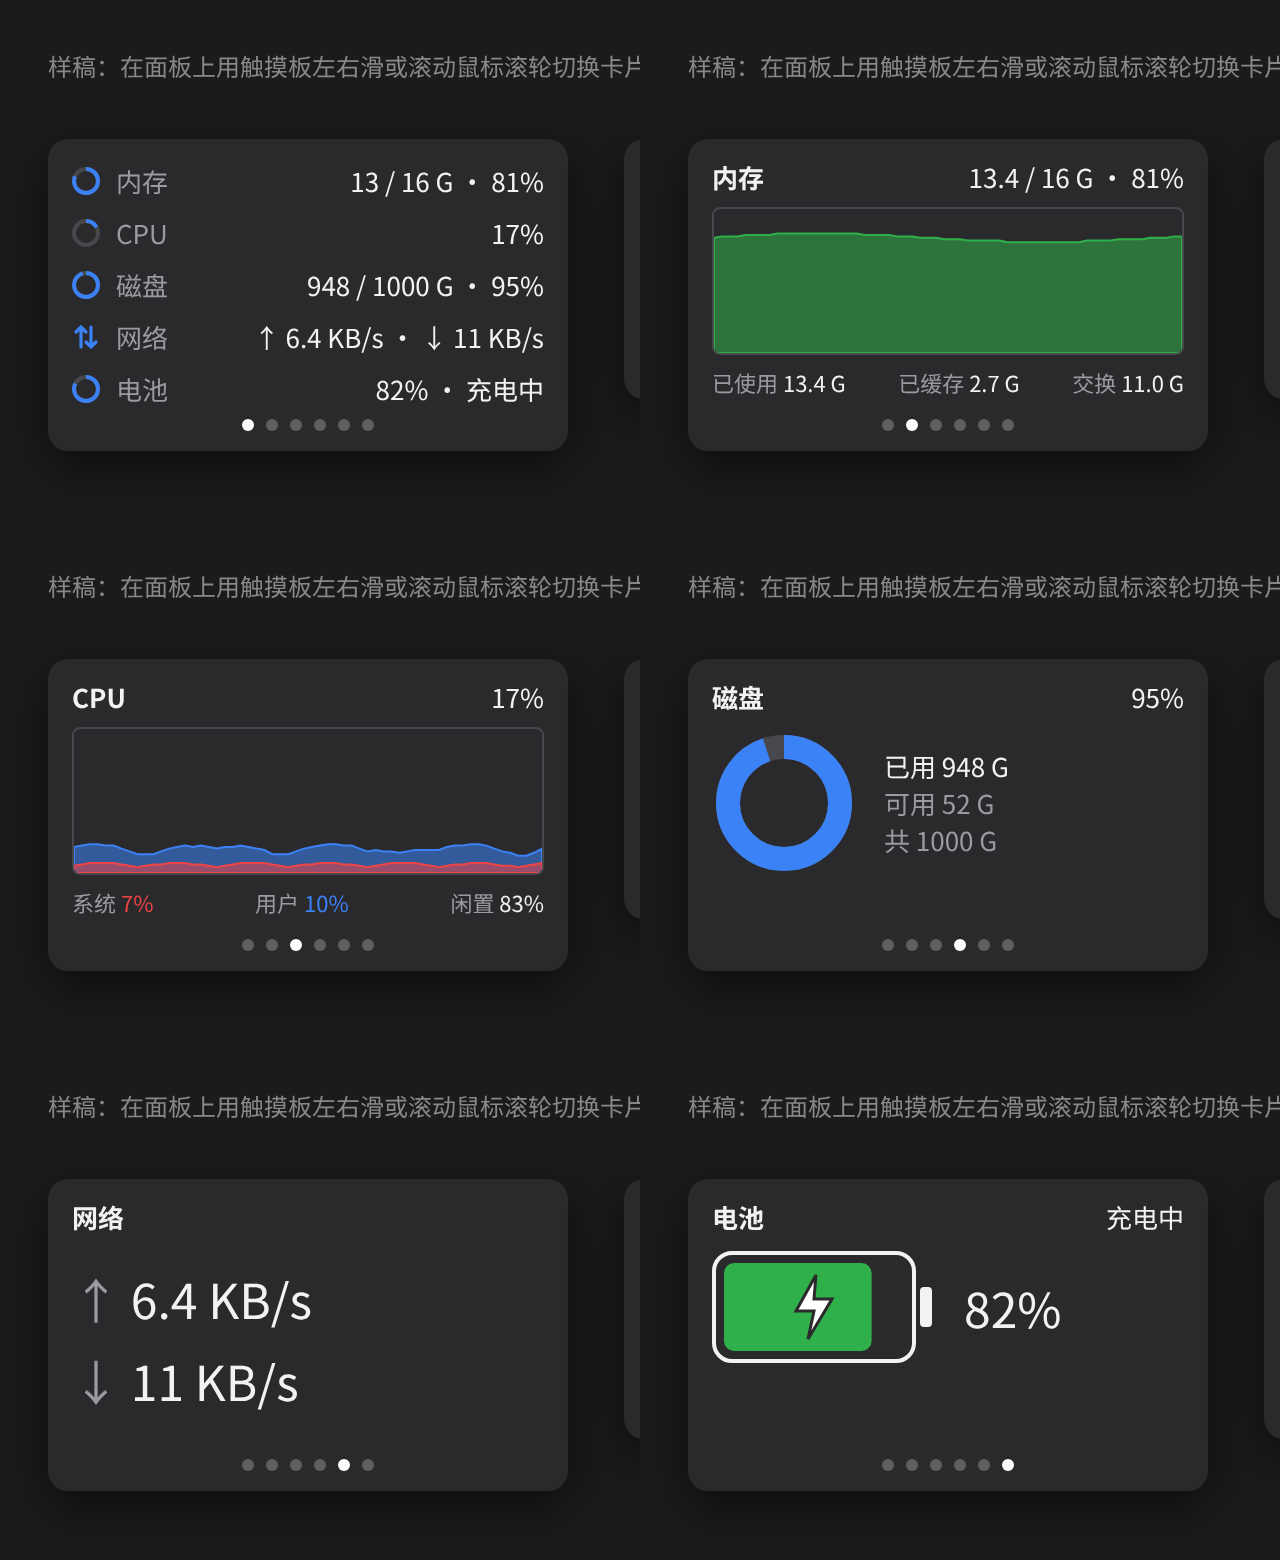
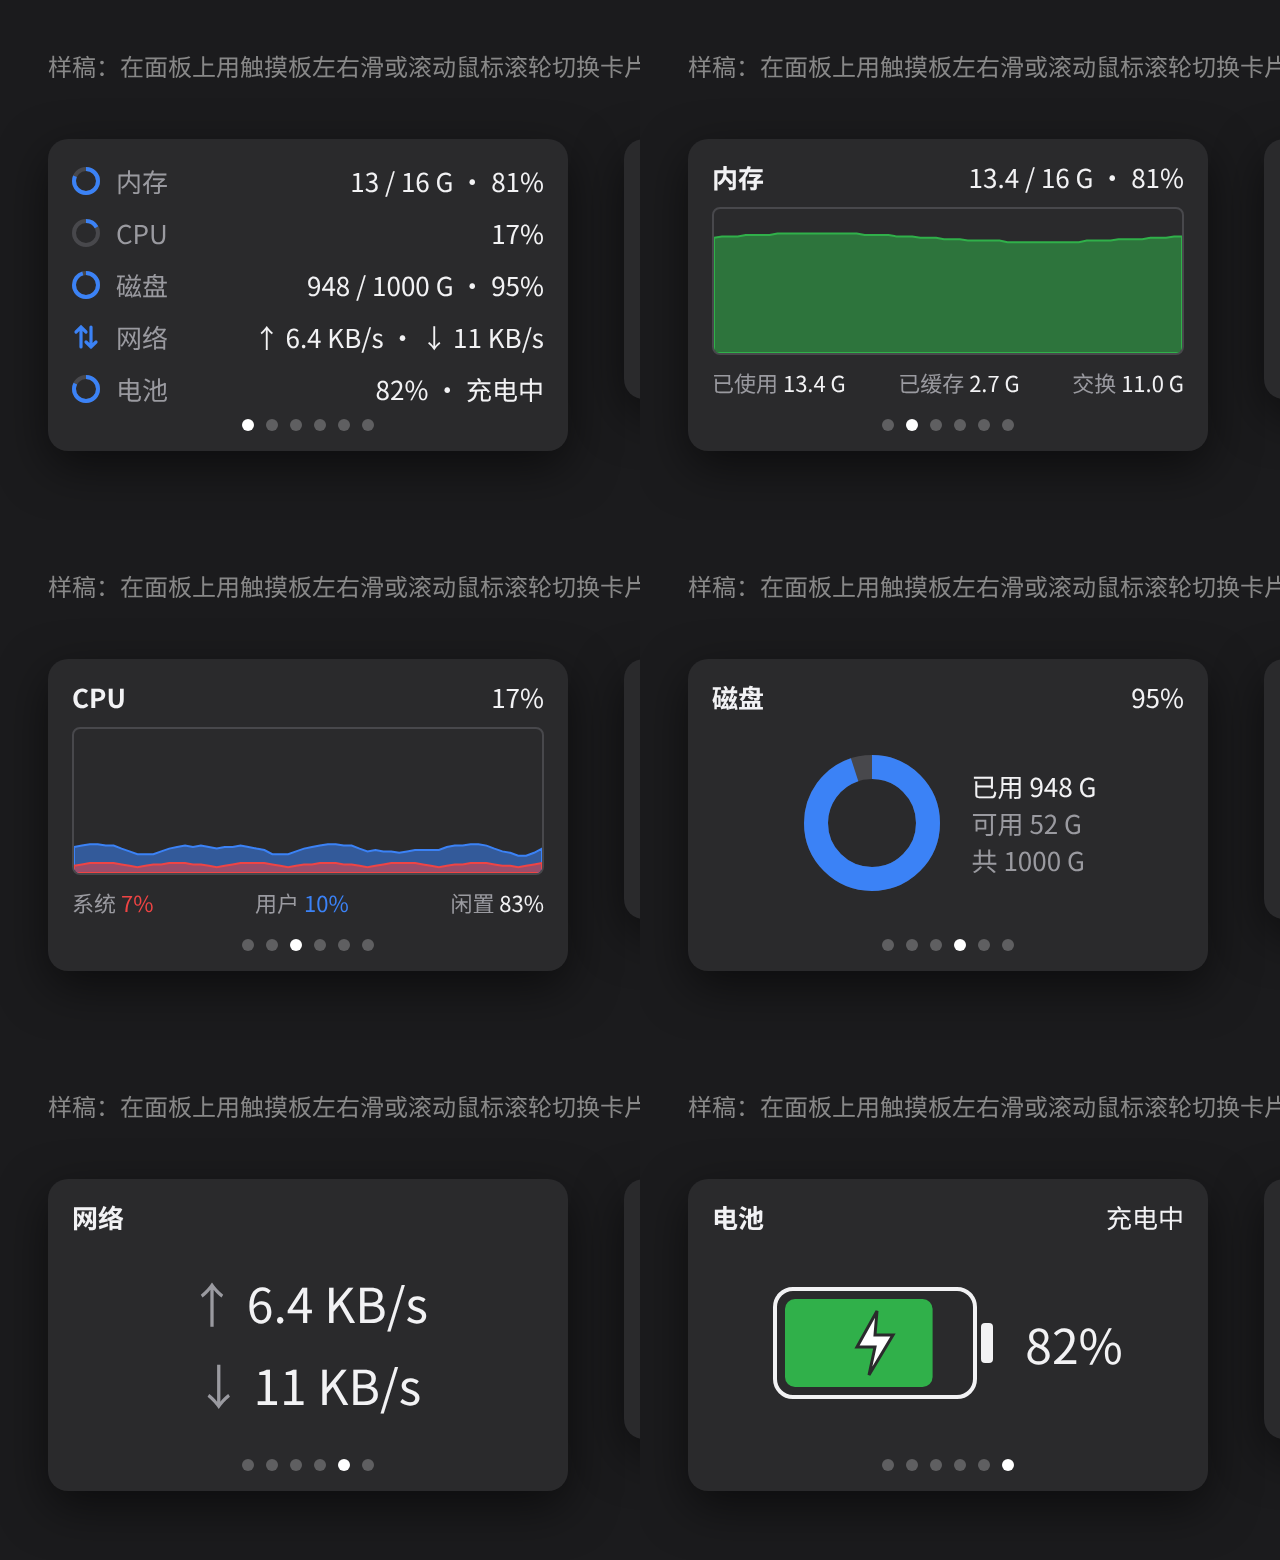
docs: v0.1.12 磁盘/网络/电池卡内容居中

Changed region(s): [[0.5625, 0.4615, 0.8438, 0.5846], [0.5625, 0.8, 0.875, 0.8923], [0.0938, 0.8, 0.3438, 0.9231]]

diff --git a/docs/changes/assets/0.1.12-cards-demo.html b/docs/changes/assets/0.1.12-cards-demo.html
@@ -10,7 +10,7 @@ body{margin:0;background:#1b1b1d;font:13px -apple-system,"PingFang SC",sans-seri
 .title{display:flex;align-items:baseline;height:18px}.title b{font-weight:600}.title span{margin-left:auto;font-variant-numeric:tabular-nums}
 .chart{margin-top:6px;height:72px;border:1px solid var(--sep);border-radius:4px;overflow:hidden}
 .stats{display:flex;justify-content:space-between;margin-top:6px;font-size:11px;color:var(--sec);font-variant-numeric:tabular-nums}.stats i{font-style:normal;color:var(--fg)}
-.big{display:flex;align-items:center;gap:14px;margin-top:8px}
+.big{display:flex;align-items:center;justify-content:center;gap:14px;height:calc(100% - 18px)}
 .dots{height:14px;display:flex;justify-content:center;align-items:center;gap:6px;padding-bottom:6px}
 .dot{width:6px;height:6px;border-radius:3px;background:#ffffff40}.dot.on{background:#fff}
 .cap{width:100%;color:#888;font-size:12px}
@@ -30,7 +30,7 @@ const cards=[`<div class="card">${rows.map(r=>`<div class="row">${r[0]}<span cla
 `<div class="card"><div class="title"><b>内存</b><span>13.4 / 16 G · ${m}%</span></div><div class="chart"><svg width="234" height="72">${area(mem,'var(--green)')}</svg></div><div class="stats"><span>已使用 <i>13.4 G</i></span><span>已缓存 <i>2.7 G</i></span><span>交换 <i>11.0 G</i></span></div></div>`,
 `<div class="card"><div class="title"><b>CPU</b><span>${u+s}%</span></div><div class="chart"><svg width="234" height="72">${area(cs.map((v,i)=>v+cu[i]),'var(--acc)')}${area(cs,'var(--red)')}</svg></div><div class="stats"><span>系统 <i style="color:var(--red)">${s}%</i></span><span>用户 <i style="color:var(--acc)">${u}%</i></span><span>闲置 <i>${100-u-s}%</i></span></div></div>`,
 `<div class="card"><div class="title"><b>磁盘</b><span>95%</span></div><div class="big"><svg width="72" height="72" viewBox="0 0 72 72"><circle cx="36" cy="36" r="28" fill="none" stroke="var(--sep)" stroke-width="12"/><circle cx="36" cy="36" r="28" fill="none" stroke="var(--acc)" stroke-width="12" stroke-dasharray="${2*Math.PI*28*.948} 999" transform="rotate(-90 36 36)"/></svg><div><div>已用 948 G</div><div class="lab">可用 52 G</div><div class="lab">共 1000 G</div></div></div></div>`,
-`<div class="card"><div class="title"><b>网络</b></div><div class="big" style="flex-direction:column;align-items:flex-start;gap:6px;margin-top:14px"><div style="font-size:24px;font-variant-numeric:tabular-nums"><span style="color:var(--sec)">↑</span> 6.4 KB/s</div><div style="font-size:24px;font-variant-numeric:tabular-nums"><span style="color:var(--sec)">↓</span> 11 KB/s</div></div></div>`];
+`<div class="card"><div class="title"><b>网络</b></div><div class="big" style="flex-direction:column;gap:6px"><div style="font-size:24px;font-variant-numeric:tabular-nums"><span style="color:var(--sec)">↑</span> 6.4 KB/s</div><div style="font-size:24px;font-variant-numeric:tabular-nums"><span style="color:var(--sec)">↓</span> 11 KB/s</div></div></div>`];
 if(bat)cards.push(`<div class="card"><div class="title"><b>电池</b><span>充电中</span></div><div class="big"><svg width="112" height="56" viewBox="0 0 112 56"><rect x="1" y="1" width="100" height="54" rx="9" fill="none" stroke="var(--fg)" stroke-width="2"/><rect x="104" y="18" width="6" height="20" rx="2" fill="var(--fg)"/><rect x="6" y="6" width="${90*.82}" height="44" rx="5" fill="var(--green)"/><path d="M52 12l-10 18h9l-3 14 12-20h-9z" fill="#fff" stroke="var(--bg)" stroke-width="1.5"/></svg><div style="font-size:24px;font-variant-numeric:tabular-nums">82%</div></div></div>`);
 if(!el.p){el.p=0;el.innerHTML=`<div class="panel"><div class="track"></div><div class="dots"></div></div>`;
  let lock=0,acc=0;el.querySelector('.panel').addEventListener('wheel',e=>{e.preventDefault();const d=Math.abs(e.deltaX)>Math.abs(e.deltaY)?e.deltaX:e.deltaY;if(Date.now()<lock){return}acc+=d;if(Math.abs(acc)>30){el.p=Math.max(0,Math.min(el.n-1,el.p+(acc>0?1:-1)));acc=0;lock=Date.now()+450;render(el,bat)}},{passive:false});}

diff --git a/docs/changes/0.1.12-cards.md b/docs/changes/0.1.12-cards.md
@@ -15,6 +15,7 @@
 - 鼠标在面板上滚动不要传给面板下面的窗口。
 
 ## 各卡片内容
+- 磁盘、网络、电池三张：标题行下面的整块区域里，图形和数字作为一组，水平、垂直都居中（老板 04:13）。
 - **内存**：标题行「内存」，右边 `13.4 / 16 G · 81%`。下面是已用比例曲线（绿色面积图，0–100%）。底行三项：已使用、已缓存、交换（`vm.swapusage`）。
 - **CPU**：标题行右边是总占用。曲线照活动监视器：系统（红）在下，用户（蓝）叠在上面。底行三项：系统、用户、闲置，颜色和曲线一致。
 - 曲线：最近 120 个点，跟菜单栏同一节奏每 2 秒采一次，所以面板没打开时也在攒历史，打开就有约 4 分钟的线。横轴最新的点在最右，从右往左长；纵轴固定 0–100%。睡眠时不采样，醒来接着画。
